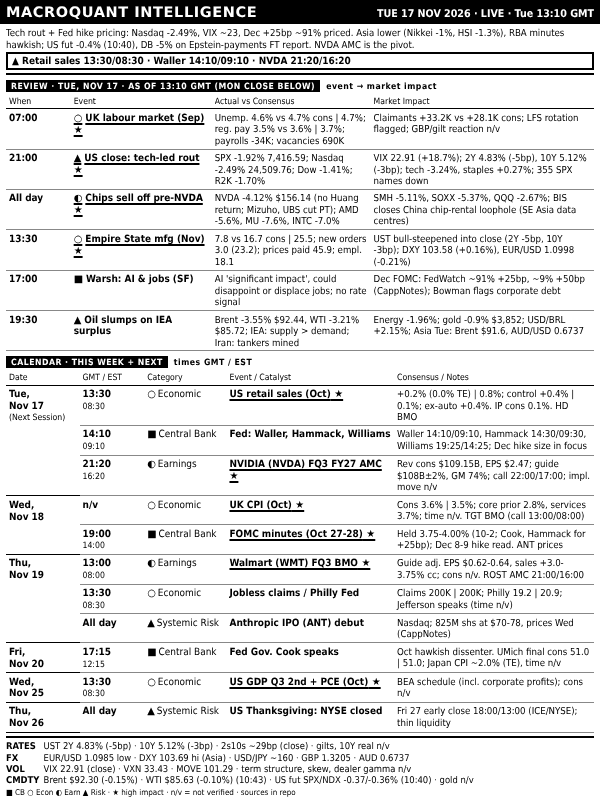
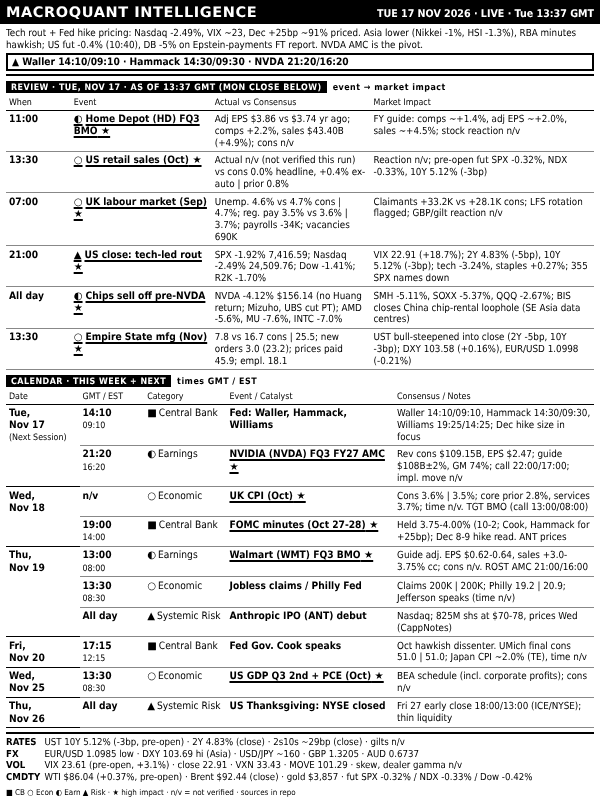
dashboard: TUE 17 NOV 2026 LIVE 13:37
Claude-Session: https://claude.ai/code/session_016SJqa78gmCvPnNDU9W1737

Changed region(s): [[0.0, 0.0, 0.99, 1.0], [0.0, 0.5938, 0.09, 0.6562], [0.0, 0.6875, 0.09, 0.7188]]

diff --git a/out/dashboard.html b/out/dashboard.html
@@ -38,12 +38,12 @@ table.bd{border-collapse:collapse;width:100%;table-layout:fixed;margin-top:1px}
 </style></head><body>
 <div id="root">
  <div class="hdr"><span class="t">MACROQUANT INTELLIGENCE</span>
-  <span class="r">TUE 17 NOV 2026 · LIVE · Tue 13:10 GMT</span></div>
- <div class="ban"><div class="rg">Tech rout + Fed hike pricing: Nasdaq -2.49%, VIX ~23, Dec +25bp ~91% priced. Asia lower (Nikkei -1%, HSI -1.3%), RBA minutes hawkish; US fut -0.4% (10:40), DB -5% on Epstein-payments FT report. NVDA AMC is the pivot.</div><div class="al">▲ Retail sales 13:30/08:30 · Waller 14:10/09:10 · NVDA 21:20/16:20</div></div>
- <div class="sl"><span>REVIEW · TUE, NOV 17 · AS OF 13:10 GMT (MON CLOSE BELOW)</span>event → market impact</div><table class="bd rv"><colgroup><col style="width:11%"><col style="width:24%"><col style="width:27%"><col></colgroup><tr><th>When</th><th>Event</th><th>Actual vs Consensus</th><th>Market Impact</th></tr><tr class="h"><td class="tm"><b>07:00</b></td><td class="ev"><i>○</i>UK labour market (Sep)</td><td class="ac">Unemp. 4.6% vs 4.7% cons | 4.7%; reg. pay 3.5% vs 3.6% | 3.7%; payrolls -34K; vacancies 690K</td><td class="nt">Claimants +33.2K vs +28.1K cons; LFS rotation flagged; GBP/gilt reaction n/v</td></tr><tr class="h"><td class="tm"><b>21:00</b></td><td class="ev"><i>▲</i>US close: tech-led rout</td><td class="ac">SPX -1.92% 7,416.59; Nasdaq -2.49% 24,509.76; Dow -1.41%; R2K -1.70%</td><td class="nt">VIX 22.91 (+18.7%); 2Y 4.83% (-5bp), 10Y 5.12% (-3bp); tech -3.24%, staples +0.27%; 355 SPX names down</td></tr><tr class="h"><td class="tm"><b>All day</b></td><td class="ev"><i>◐</i>Chips sell off pre-NVDA</td><td class="ac">NVDA -4.12% $156.14 (no Huang return; Mizuho, UBS cut PT); AMD -5.6%, MU -7.6%, INTC -7.0%</td><td class="nt">SMH -5.11%, SOXX -5.37%, QQQ -2.67%; BIS closes China chip-rental loophole (SE Asia data centres)</td></tr><tr class="h"><td class="tm"><b>13:30</b></td><td class="ev"><i>○</i>Empire State mfg (Nov)</td><td class="ac">7.8 vs 16.7 cons | 25.5; new orders 3.0 (23.2); prices paid 45.9; empl. 18.1</td><td class="nt">UST bull-steepened into close (2Y -5bp, 10Y -3bp); DXY 103.58 (+0.16%), EUR/USD 1.0998 (-0.21%)</td></tr><tr><td class="tm"><b>17:00</b></td><td class="ev"><i>■</i>Warsh: AI &amp; jobs (SF)</td><td class="ac">AI 'significant impact', could disappoint or displace jobs; no rate signal</td><td class="nt">Dec FOMC: FedWatch ~91% +25bp, ~9% +50bp (CappNotes); Bowman flags corporate debt</td></tr><tr><td class="tm"><b>19:30</b></td><td class="ev"><i>▲</i>Oil slumps on IEA surplus</td><td class="ac">Brent -3.55% $92.44, WTI -3.21% $85.72; IEA: supply &gt; demand; Iran: tankers mined</td><td class="nt">Energy -1.96%; gold -0.9% $3,852; USD/BRL +2.15%; Asia Tue: Brent $91.6, AUD/USD 0.6737</td></tr></table>
+  <span class="r">TUE 17 NOV 2026 · LIVE · Tue 13:37 GMT</span></div>
+ <div class="ban"><div class="rg">Tech rout + Fed hike pricing: Nasdaq -2.49%, VIX ~23, Dec +25bp ~91% priced. Asia lower (Nikkei -1%, HSI -1.3%), RBA minutes hawkish; US fut -0.4% (10:40), DB -5% on Epstein-payments FT report. NVDA AMC is the pivot.</div><div class="al">▲ Waller 14:10/09:10 · Hammack 14:30/09:30 · NVDA 21:20/16:20</div></div>
+ <div class="sl"><span>REVIEW · TUE, NOV 17 · AS OF 13:37 GMT (MON CLOSE BELOW)</span>event → market impact</div><table class="bd rv"><colgroup><col style="width:11%"><col style="width:24%"><col style="width:27%"><col></colgroup><tr><th>When</th><th>Event</th><th>Actual vs Consensus</th><th>Market Impact</th></tr><tr class="h"><td class="tm"><b>11:00</b></td><td class="ev"><i>◐</i>Home Depot (HD) FQ3 BMO</td><td class="ac">Adj EPS $3.86 vs $3.74 yr ago; comps +2.2%, sales $43.40B (+4.9%); cons n/v</td><td class="nt">FY guide: comps ~+1.4%, adj EPS ~+2.0%, sales ~+4.5%; stock reaction n/v</td></tr><tr class="h"><td class="tm"><b>13:30</b></td><td class="ev"><i>○</i>US retail sales (Oct)</td><td class="ac">Actual n/v (not verified this run) vs cons 0.0% headline, +0.4% ex-auto | prior 0.8%</td><td class="nt">Reaction n/v; pre-open fut SPX -0.32%, NDX -0.33%, 10Y 5.12% (-3bp)</td></tr><tr class="h"><td class="tm"><b>07:00</b></td><td class="ev"><i>○</i>UK labour market (Sep)</td><td class="ac">Unemp. 4.6% vs 4.7% cons | 4.7%; reg. pay 3.5% vs 3.6% | 3.7%; payrolls -34K; vacancies 690K</td><td class="nt">Claimants +33.2K vs +28.1K cons; LFS rotation flagged; GBP/gilt reaction n/v</td></tr><tr class="h"><td class="tm"><b>21:00</b></td><td class="ev"><i>▲</i>US close: tech-led rout</td><td class="ac">SPX -1.92% 7,416.59; Nasdaq -2.49% 24,509.76; Dow -1.41%; R2K -1.70%</td><td class="nt">VIX 22.91 (+18.7%); 2Y 4.83% (-5bp), 10Y 5.12% (-3bp); tech -3.24%, staples +0.27%; 355 SPX names down</td></tr><tr class="h"><td class="tm"><b>All day</b></td><td class="ev"><i>◐</i>Chips sell off pre-NVDA</td><td class="ac">NVDA -4.12% $156.14 (no Huang return; Mizuho, UBS cut PT); AMD -5.6%, MU -7.6%, INTC -7.0%</td><td class="nt">SMH -5.11%, SOXX -5.37%, QQQ -2.67%; BIS closes China chip-rental loophole (SE Asia data centres)</td></tr><tr class="h"><td class="tm"><b>13:30</b></td><td class="ev"><i>○</i>Empire State mfg (Nov)</td><td class="ac">7.8 vs 16.7 cons | 25.5; new orders 3.0 (23.2); prices paid 45.9; empl. 18.1</td><td class="nt">UST bull-steepened into close (2Y -5bp, 10Y -3bp); DXY 103.58 (+0.16%), EUR/USD 1.0998 (-0.21%)</td></tr></table>
  <div class="sl"><span>CALENDAR · THIS WEEK + NEXT</span>times GMT / EST</div>
- <table class="bd"><colgroup><col style="width:12.5%"><col style="width:11%"><col style="width:14%"><col style="width:28.5%"><col></colgroup><tr><th>Date</th><th>GMT / EST</th><th>Category</th><th>Event / Catalyst</th><th>Consensus / Notes</th></tr><tr class="g0 h"><td class="dt" rowspan="3">Tue,<br>Nov&nbsp;17<span class="tg">(Next Session)</span></td><td class="tm"><b>13:30</b><span>08:30</span></td><td class="ct"><i>○</i>Economic</td><td class="ev">US retail sales (Oct)</td><td class="nt">+0.2% (0.0% TE) | 0.8%; control +0.4% | 0.1%; ex-auto +0.4%. IP cons 0.1%. HD BMO</td></tr><tr class=""><td class="tm"><b>14:10</b><span>09:10</span></td><td class="ct"><i>■</i>Central Bank</td><td class="ev">Fed: Waller, Hammack, Williams</td><td class="nt">Waller 14:10/09:10, Hammack 14:30/09:30, Williams 19:25/14:25; Dec hike size in focus</td></tr><tr class="h"><td class="tm"><b>21:20</b><span>16:20</span></td><td class="ct"><i>◐</i>Earnings</td><td class="ev">NVIDIA (NVDA) FQ3 FY27 AMC</td><td class="nt">Rev cons $109.15B, EPS $2.47; guide $108B±2%, GM 74%; call 22:00/17:00; impl. move n/v</td></tr><tr class="g0 h"><td class="dt" rowspan="2">Wed,<br>Nov&nbsp;18</td><td class="tm"><b>n/v</b></td><td class="ct"><i>○</i>Economic</td><td class="ev">UK CPI (Oct)</td><td class="nt">Cons 3.6% | 3.5%; core prior 2.8%, services 3.7%; time n/v. TGT BMO (call 13:00/08:00)</td></tr><tr class="h"><td class="tm"><b>19:00</b><span>14:00</span></td><td class="ct"><i>■</i>Central Bank</td><td class="ev">FOMC minutes (Oct 27-28)</td><td class="nt">Held 3.75-4.00% (10-2; Cook, Hammack for +25bp); Dec 8-9 hike read. ANT prices</td></tr><tr class="g0 h"><td class="dt" rowspan="3">Thu,<br>Nov&nbsp;19</td><td class="tm"><b>13:00</b><span>08:00</span></td><td class="ct"><i>◐</i>Earnings</td><td class="ev">Walmart (WMT) FQ3 BMO</td><td class="nt">Guide adj. EPS $0.62-0.64, sales +3.0-3.75% cc; cons n/v. ROST AMC 21:00/16:00</td></tr><tr class=""><td class="tm"><b>13:30</b><span>08:30</span></td><td class="ct"><i>○</i>Economic</td><td class="ev">Jobless claims / Philly Fed</td><td class="nt">Claims 200K | 200K; Philly 19.2 | 20.9; Jefferson speaks (time n/v)</td></tr><tr class=""><td class="tm"><b>All day</b></td><td class="ct"><i>▲</i>Systemic Risk</td><td class="ev">Anthropic IPO (ANT) debut</td><td class="nt">Nasdaq; 825M shs at $70-78, prices Wed (CappNotes)</td></tr><tr class="g0"><td class="dt" rowspan="1">Fri,<br>Nov&nbsp;20</td><td class="tm"><b>17:15</b><span>12:15</span></td><td class="ct"><i>■</i>Central Bank</td><td class="ev">Fed Gov. Cook speaks</td><td class="nt">Oct hawkish dissenter. UMich final cons 51.0 | 51.0; Japan CPI ~2.0% (TE), time n/v</td></tr><tr class="g0 h"><td class="dt" rowspan="1">Wed,<br>Nov&nbsp;25</td><td class="tm"><b>13:30</b><span>08:30</span></td><td class="ct"><i>○</i>Economic</td><td class="ev">US GDP Q3 2nd + PCE (Oct)</td><td class="nt">BEA schedule (incl. corporate profits); cons n/v</td></tr><tr class="g0"><td class="dt" rowspan="1">Thu,<br>Nov&nbsp;26</td><td class="tm"><b>All day</b></td><td class="ct"><i>▲</i>Systemic Risk</td><td class="ev">US Thanksgiving: NYSE closed</td><td class="nt">Fri 27 early close 18:00/13:00 (ICE/NYSE); thin liquidity</td></tr></table>
- <div class="lv"><div><b>RATES</b>UST 2Y 4.83% (-5bp) · 10Y 5.12% (-3bp) · 2s10s ~29bp (close) · gilts, 10Y real n/v</div><div><b>FX</b>EUR/USD 1.0985 low · DXY 103.69 hi (Asia) · USD/JPY ~160 · GBP 1.3205 · AUD 0.6737</div><div><b>VOL</b>VIX 22.91 (close) · VXN 33.43 · MOVE 101.29 · term structure, skew, dealer gamma n/v</div><div><b>CMDTY</b>Brent $92.30 (-0.15%) · WTI $85.63 (-0.10%) (10:43) · US fut SPX/NDX -0.37/-0.36% (10:40) · gold n/v</div></div>
+ <table class="bd"><colgroup><col style="width:12.5%"><col style="width:11%"><col style="width:14%"><col style="width:28.5%"><col></colgroup><tr><th>Date</th><th>GMT / EST</th><th>Category</th><th>Event / Catalyst</th><th>Consensus / Notes</th></tr><tr class="g0"><td class="dt" rowspan="2">Tue,<br>Nov&nbsp;17<span class="tg">(Next Session)</span></td><td class="tm"><b>14:10</b><span>09:10</span></td><td class="ct"><i>■</i>Central Bank</td><td class="ev">Fed: Waller, Hammack, Williams</td><td class="nt">Waller 14:10/09:10, Hammack 14:30/09:30, Williams 19:25/14:25; Dec hike size in focus</td></tr><tr class="h"><td class="tm"><b>21:20</b><span>16:20</span></td><td class="ct"><i>◐</i>Earnings</td><td class="ev">NVIDIA (NVDA) FQ3 FY27 AMC</td><td class="nt">Rev cons $109.15B, EPS $2.47; guide $108B±2%, GM 74%; call 22:00/17:00; impl. move n/v</td></tr><tr class="g0 h"><td class="dt" rowspan="2">Wed,<br>Nov&nbsp;18</td><td class="tm"><b>n/v</b></td><td class="ct"><i>○</i>Economic</td><td class="ev">UK CPI (Oct)</td><td class="nt">Cons 3.6% | 3.5%; core prior 2.8%, services 3.7%; time n/v. TGT BMO (call 13:00/08:00)</td></tr><tr class="h"><td class="tm"><b>19:00</b><span>14:00</span></td><td class="ct"><i>■</i>Central Bank</td><td class="ev">FOMC minutes (Oct 27-28)</td><td class="nt">Held 3.75-4.00% (10-2; Cook, Hammack for +25bp); Dec 8-9 hike read. ANT prices</td></tr><tr class="g0 h"><td class="dt" rowspan="3">Thu,<br>Nov&nbsp;19</td><td class="tm"><b>13:00</b><span>08:00</span></td><td class="ct"><i>◐</i>Earnings</td><td class="ev">Walmart (WMT) FQ3 BMO</td><td class="nt">Guide adj. EPS $0.62-0.64, sales +3.0-3.75% cc; cons n/v. ROST AMC 21:00/16:00</td></tr><tr class=""><td class="tm"><b>13:30</b><span>08:30</span></td><td class="ct"><i>○</i>Economic</td><td class="ev">Jobless claims / Philly Fed</td><td class="nt">Claims 200K | 200K; Philly 19.2 | 20.9; Jefferson speaks (time n/v)</td></tr><tr class=""><td class="tm"><b>All day</b></td><td class="ct"><i>▲</i>Systemic Risk</td><td class="ev">Anthropic IPO (ANT) debut</td><td class="nt">Nasdaq; 825M shs at $70-78, prices Wed (CappNotes)</td></tr><tr class="g0"><td class="dt" rowspan="1">Fri,<br>Nov&nbsp;20</td><td class="tm"><b>17:15</b><span>12:15</span></td><td class="ct"><i>■</i>Central Bank</td><td class="ev">Fed Gov. Cook speaks</td><td class="nt">Oct hawkish dissenter. UMich final cons 51.0 | 51.0; Japan CPI ~2.0% (TE), time n/v</td></tr><tr class="g0 h"><td class="dt" rowspan="1">Wed,<br>Nov&nbsp;25</td><td class="tm"><b>13:30</b><span>08:30</span></td><td class="ct"><i>○</i>Economic</td><td class="ev">US GDP Q3 2nd + PCE (Oct)</td><td class="nt">BEA schedule (incl. corporate profits); cons n/v</td></tr><tr class="g0"><td class="dt" rowspan="1">Thu,<br>Nov&nbsp;26</td><td class="tm"><b>All day</b></td><td class="ct"><i>▲</i>Systemic Risk</td><td class="ev">US Thanksgiving: NYSE closed</td><td class="nt">Fri 27 early close 18:00/13:00 (ICE/NYSE); thin liquidity</td></tr></table>
+ <div class="lv"><div><b>RATES</b>UST 10Y 5.12% (-3bp, pre-open) · 2Y 4.83% (close) · 2s10s ~29bp (close) · gilts n/v</div><div><b>FX</b>EUR/USD 1.0985 low · DXY 103.69 hi (Asia) · USD/JPY ~160 · GBP 1.3205 · AUD 0.6737</div><div><b>VOL</b>VIX 23.61 (pre-open, +3.1%) · close 22.91 · VXN 33.43 · MOVE 101.29 · skew, dealer gamma n/v</div><div><b>CMDTY</b>WTI $86.04 (+0.37%, pre-open) · Brent $92.44 (close) · gold $3,857 · fut SPX -0.32% / NDX -0.33% / Dow -0.42%</div></div>
 </div>
 <div class="foot">■ CB ○ Econ ◐ Earn ▲ Risk · ★ high impact · n/v = not verified · sources in repo</div>
 </body></html>
